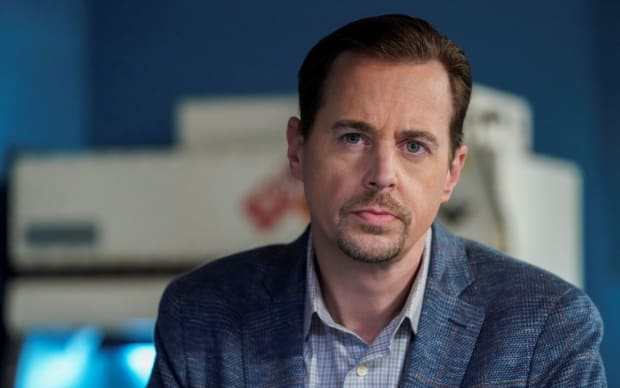
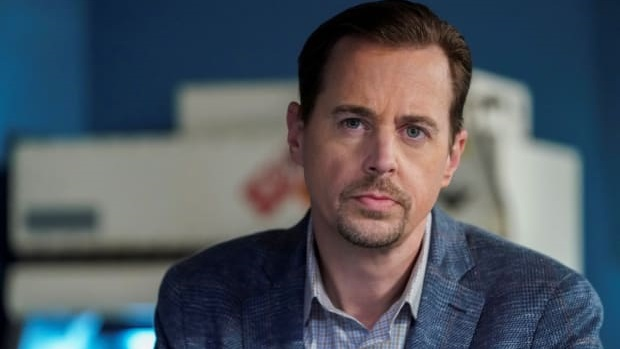
Consistent image height

diff --git a/app/Quote.tsx b/app/Quote.tsx
@@ -40,7 +40,7 @@ const Quote = (props: QuoteProps) => {
         {props.template.title && <div className={styles.title}>{props.template.title}</div>}
         <div className={styles.image}>
           {image ? (
-            <Image src={image} alt={props.template.person} width={550} height={270} />
+            <Image src={image} alt={props.template.person} fill />
           ) : (
             // No image, just show the name of the person within the image container
             <span>{props.template.person}</span>

diff --git a/styles/Quote.module.scss b/styles/Quote.module.scss
@@ -19,6 +19,8 @@
 
     .image {
       display: flex;
+      position: relative;
+      height: 250px;
     }
 
     .message {
